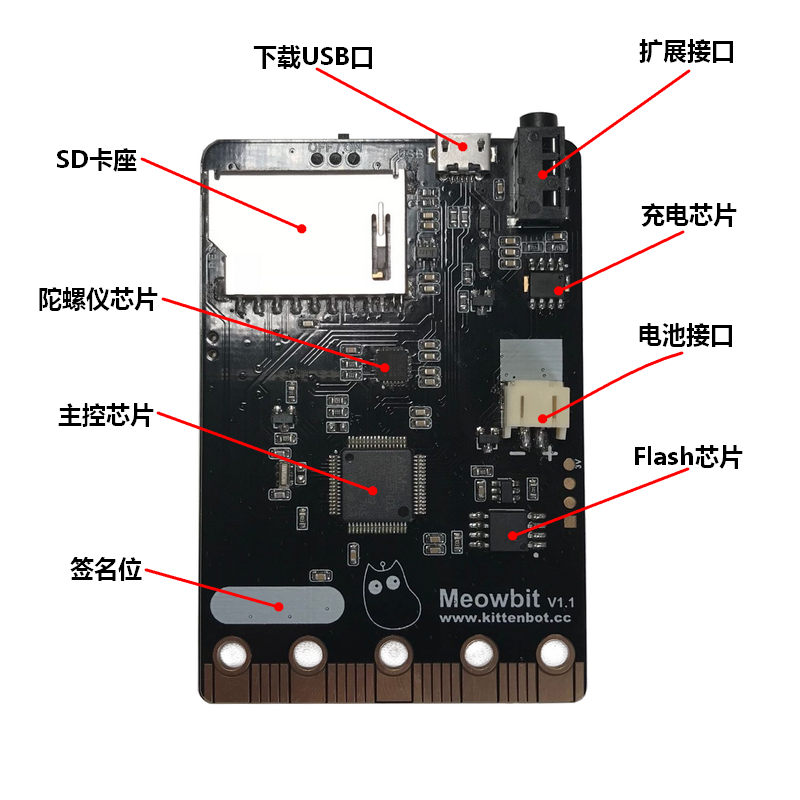
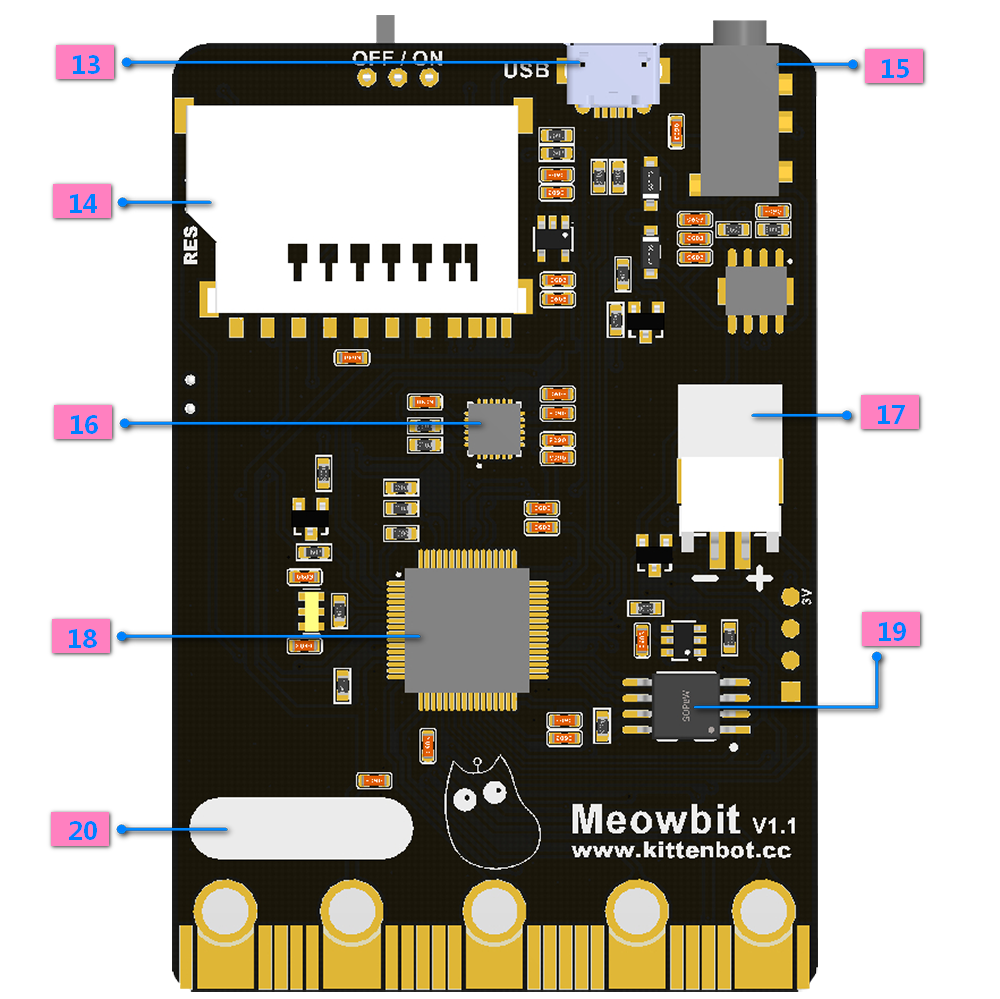
update

diff --git a/lib/theme.css b/lib/theme.css
@@ -9,7 +9,7 @@ div#app:empty:before{content:"Loading..."}
 .search .search-keyword{font-style:normal;font-weight:700}
 body,html{height:100%}
 body{-moz-osx-font-smoothing:grayscale;-webkit-font-smoothing:antialiased;color:#34495e;font-family:Source Sans Pro,Helvetica Neue,Arial,sans-serif;font-size:15px;letter-spacing:0;margin:0;overflow-x:hidden}
-img{max-width:100%}
+img{max-width:100%; position: flex; display: block; vertical-align: middle;align-content: center}
 a[disabled]{cursor:not-allowed;opacity:.6}
 kbd{border:1px solid #ccc;border-radius:3px;display:inline-block;font-size:12px!important;line-height:12px;margin-bottom:3px;padding:3px 5px;vertical-align:middle}
 li input[type=checkbox]{margin:0 .2em .25em 0;vertical-align:middle}
@@ -71,6 +71,10 @@ body.sticky .sidebar,body.sticky .sidebar-toggle{position:fixed}
 .markdown-section p.tip code{background-color:#efefef}
 .markdown-section p.tip em{color:#34495e}
 .markdown-section p.warn{background:rgba(66,185,131,.1);border-radius:2px;padding:1rem}
+
+.markdown-section p img{display: block; margin: 0 auto;max-width:70% }
+
+
 body.close .sidebar{transform:translateX(-300px)}
 body.close .sidebar-toggle{width:auto;}
 body.close .content{left:0}

diff --git a/makecode/00喵bit硬件简介.md b/makecode/00喵bit硬件简介.md
@@ -27,33 +27,45 @@ USB充电电压：5V（电流1A或以上）
 
 ![](./image/c01_19.png)
 
-160x128像素全彩tft屏幕
+1. 充电/工作指示灯
 
-默认烧录unicode字符表的2MByte的spi-flash
+2. 光敏传感器
 
-6个可编程按键
+3. 电源拨动开关
 
-2个可编程led
+4. 可编程LED灯 x 2
 
-可编程蜂鸣器
+5. 复位按键
 
-6轴陀螺仪和加速度计
+6. DFU模式按键（用于刷固件切换编程模式、也用于makecode固件下调出菜单）
 
-光敏传感器
+7. 160 x 128 tft彩屏
 
-温度传感器。
+8. 温度传感器
 
-JAC接口
+9. 方向可编程按键 x 4
 
-SD卡槽
+10. 可编程蜂鸣器
 
-复位按键
+11. 可编程A、B按键
 
-DFU模式按键（用于刷固件切换编程模式）
+12. 兼容Microbit40PIN金手指接口
 
-3.7V锂电池接口
+13. USB程序下载口
 
-兼容Microbit40PIN金手指接口
+14. SD卡槽(存储程序、后续拓展蓝牙/wifi模块)
+
+15. JAC接口
+
+16. 6轴陀螺仪和加速度计
+
+17. 3.7V锂电池接口
+
+18. 主控芯片
+
+19. 默认烧录unicode字符表的2MByte的spi-flash
+
+20. 签名栏
 
 
 ## 编程模式

diff --git a/makecode/04按键检测控制.md b/makecode/04按键检测控制.md
@@ -1,6 +1,6 @@
 # 按键检测控制
 
-![](./image/c04_04.png)
+![](./image/c04_05.png)
 
 ## 喵bit可编程按键介绍
 
@@ -17,13 +17,6 @@
 ## 按键状态可选
 
 一共4种状态，大家都可以分别测试下这四种方式有什么不同
-
-## 按键类型可选
-
-喵bit上有6个按键（上、下、左、右、A、B）
-
-
-![](./image/c04_05.png)
 
 ## 按键测试
 

diff --git a/makecode/03彩屏显示控制.md b/makecode/03彩屏显示控制.md
@@ -19,13 +19,11 @@
 
 ## 显示图片
 
-直接显示彩色图片，爽~
+直接显示彩色像素图 
 
 ![](./image/c03_02.png)
 
 当然彩色的图片已经内置了一部分供你快速选择，后面我们也会教大家如何制作自己的图片和让图片显示在何处
-
-![](./image/c03_02.png)
 
 ## 显示图表
 

diff --git a/makecode/01固件更新教程.md b/makecode/01固件更新教程.md
@@ -24,8 +24,6 @@
 
 ---
 
-![](./image/c01_18.png)
-
 请按住喵bit侧边的DFU按键，之后插上usb数据线。（这里用的是旧版本电路板，新版同理）
 
 ![](./image/c01_16.png)

diff --git a/makecode/02喵bit版Makecode简介.md b/makecode/02喵bit版Makecode简介.md
@@ -32,7 +32,7 @@
 ### 点击下载程序保存在“Arcade”的U盘上
 
 
-![](./image/c02_06.png)
+![](./image/c03_05.png)
 
 ### 下载成功现象
 
